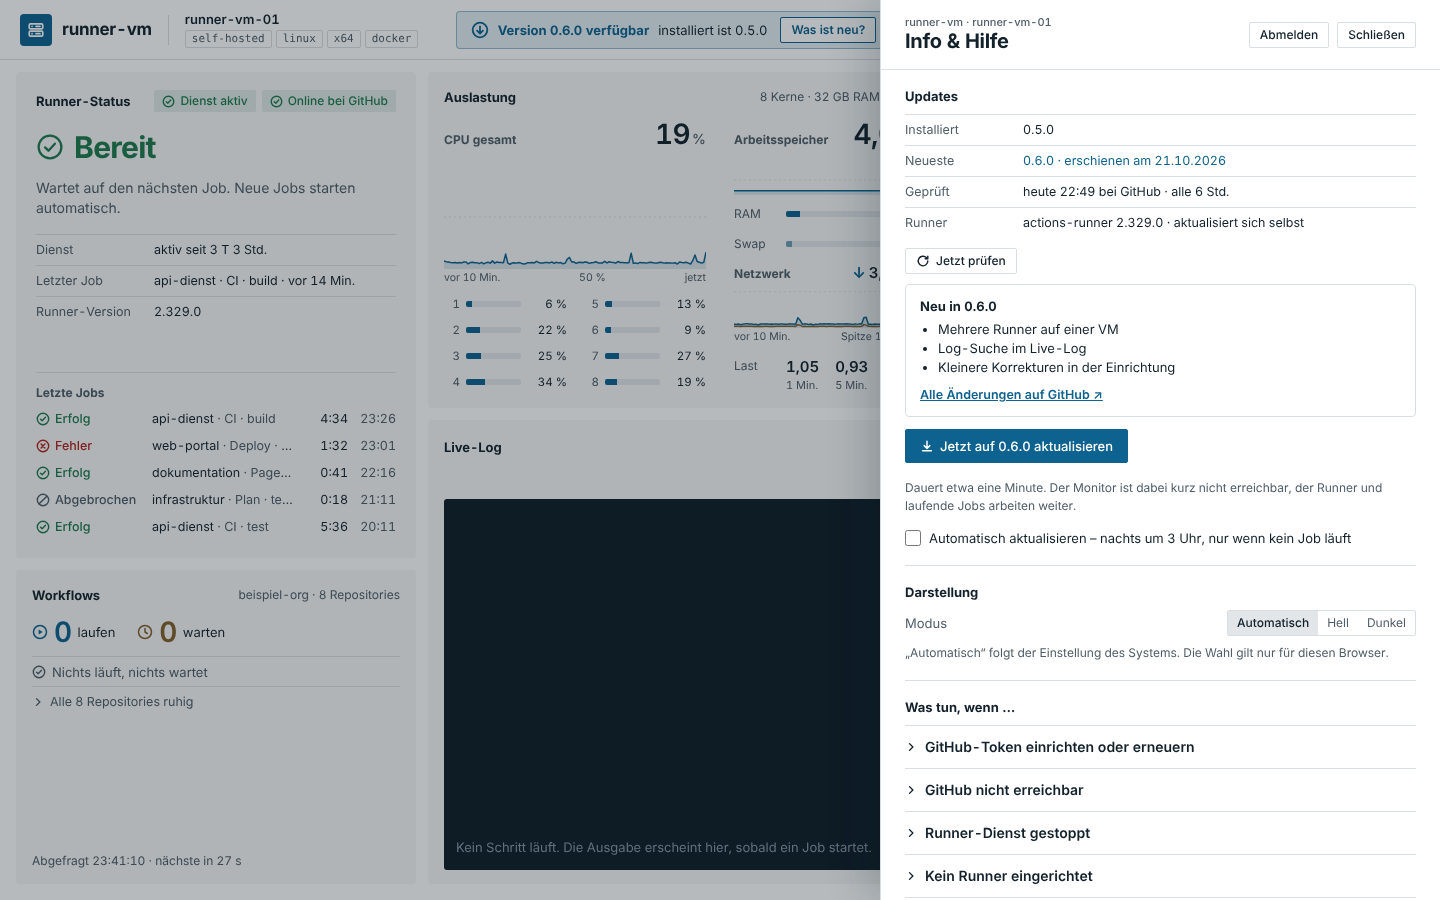
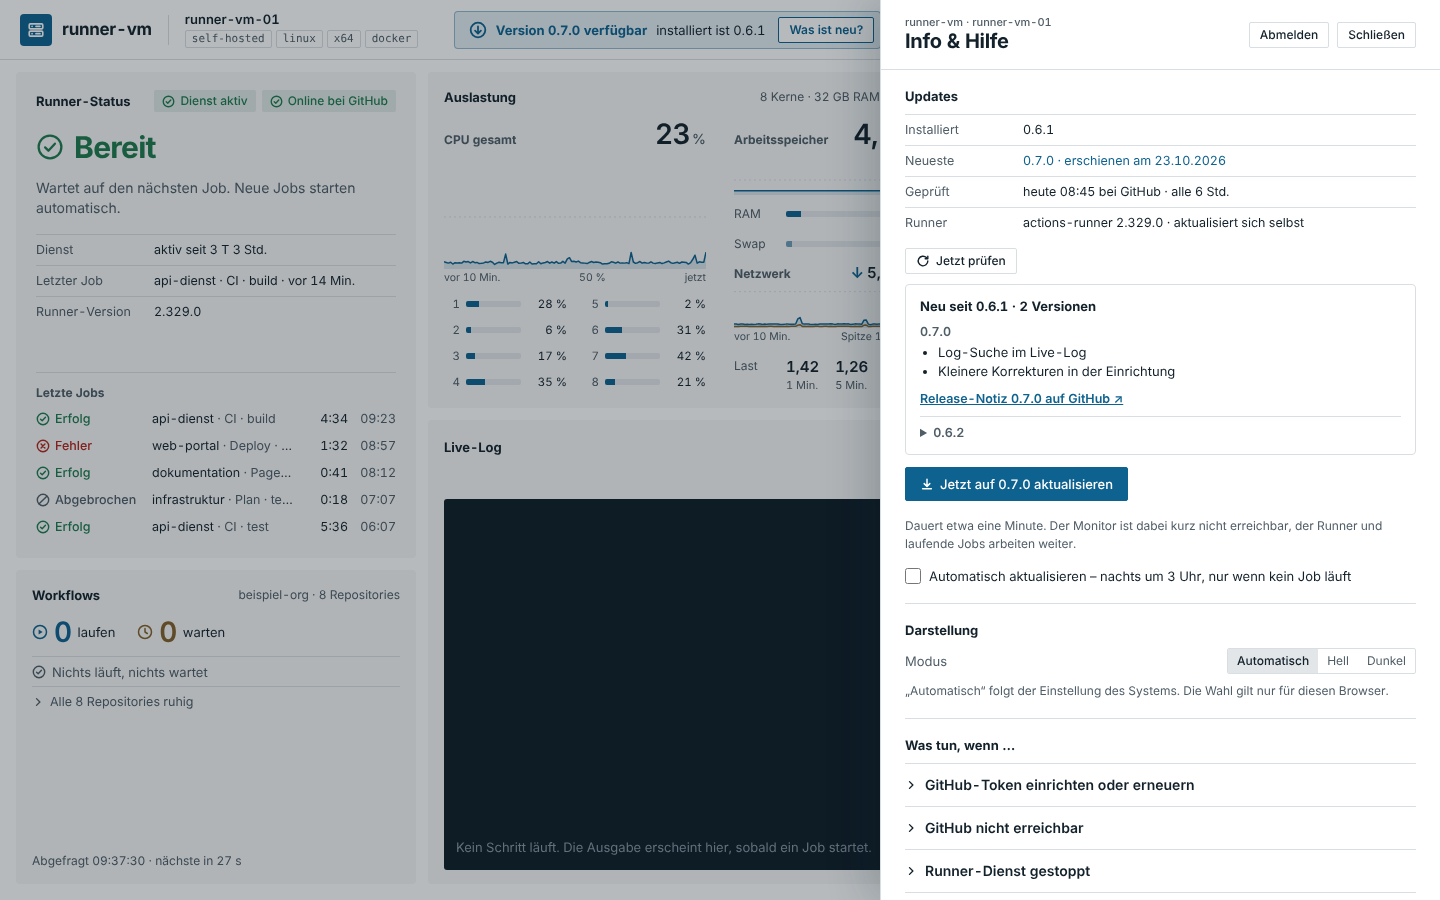
Änderungen seit der installierten Version vor dem Update anzeigen (#78)
Claude-Session: https://claude.ai/code/session_01Dvhiq4HdS1jMhHCCuwreiQ

diff --git a/web/dashboard.js b/web/dashboard.js
@@ -619,6 +619,26 @@
     $('k-info').focus();
   }
 
+  // Inline-Code aus Release-Notizen (`…`) nach dem Maskieren als <code> zeigen
+  const mitCode = (text) => esc(text).replace(/`([^`]+)`/g, '<code class="inl">$1</code>');
+
+  // Was sich gegenüber der installierten Version ändert (#78): je Version „Neu in X“ und
+  // „Einmalig nach dem Update“; neueste offen, ältere eingeklappt.
+  function aenderungenHtml(u) {
+    const liste = (u.neueste.aenderungen && u.neueste.aenderungen.length) ? u.neueste.aenderungen
+      : (u.neueste.notizen && u.neueste.notizen.length ? [{ version: u.neueste.version, url: u.neueste.url, neu: u.neueste.notizen, einmalig: '' }] : []);
+    if (!liste.length) return '';
+    const block = (r) => `${r.einmalig ? `<div class="upd-einmalig"><span class="upd-einmalig-titel">Einmalig nach dem Update:</span> ${mitCode(r.einmalig)}</div>` : ''}`
+      + (r.neu && r.neu.length ? `<ul>${r.neu.map(n => `<li>${mitCode(n)}</li>`).join('')}</ul>` : '')
+      + `<a href="${esc(r.url || `https://github.com/${REPO}/releases`)}" rel="noopener" target="_blank">Release-Notiz ${esc(r.version)} auf GitHub ↗</a>`;
+    const [erste, ...aeltere] = liste;
+    const titel = liste.length > 1 ? `Neu seit ${esc(u.installiert)} · ${liste.length} Versionen` : `Neu in ${esc(erste.version)}`;
+    return `<div class="upd-neu"><div class="upd-neu-titel">${titel}</div>`
+      + (liste.length > 1 ? `<div class="upd-version">${esc(erste.version)}</div>` : '') + block(erste)
+      + aeltere.map(r => `<details class="upd-aelter"><summary>${esc(r.version)}</summary>${block(r)}</details>`).join('')
+      + '</div>';
+  }
+
   function infoTeile() {
     const st = S.status || {}, w = S.workflows || {}, u = S.update || {}, us = u.status || {};
     const jetzt = Date.now();
@@ -633,7 +653,7 @@
       ['Runner', `${st.version ? 'actions-runner ' + esc(st.version) : '–'} · aktualisiert sich selbst`],
     ]);
     upd += pruefKnopf(u, us, neu);
-    if (neu && u.neueste.notizen && u.neueste.notizen.length) upd += `<div class="upd-neu"><div class="upd-neu-titel">Neu in ${esc(u.neueste.version)}</div><ul>${u.neueste.notizen.map(n => `<li>${esc(n)}</li>`).join('')}</ul><a href="${esc(u.neueste.url || `https://github.com/${REPO}/releases`)}" rel="noopener" target="_blank">Alle Änderungen auf GitHub ↗</a></div>`;
+    if (neu) upd += aenderungenHtml(u);
     if (us.zustand === 'laeuft' || us.zustand === 'fehler') {
       const nr = us.schritt || 1;
       const zeilen = UPDATE_SCHRITTE.map((s, i) => {

diff --git a/web/demo.js b/web/demo.js
@@ -63,7 +63,11 @@ window.RM_DEMO = (() => {
   };
   const update = () => {
     const t = jetzt();
-    const neueste = { geprueft: t - 3100, version: upd === 'aktuell' ? INST : NEU, veroeffentlicht: t - 2 * 86400, url: 'https://github.com/Bamberger-IT-Services/Self-Hosted-Github-Runner-Monitor/releases', notizen: ['Mehrere Runner auf einer VM', 'Log-Suche im Live-Log', 'Kleinere Korrekturen in der Einrichtung'] };
+    const neueste = { geprueft: t - 3100, version: upd === 'aktuell' ? INST : NEU, veroeffentlicht: t - 2 * 86400, url: 'https://github.com/Bamberger-IT-Services/Self-Hosted-Github-Runner-Monitor/releases', notizen: ['Mehrere Runner auf einer VM', 'Log-Suche im Live-Log', 'Kleinere Korrekturen in der Einrichtung'],
+      aenderungen: upd === 'aktuell' ? [] : [
+        { version: NEU, url: 'https://github.com/Bamberger-IT-Services/Self-Hosted-Github-Runner-Monitor/releases', neu: ['Log-Suche im Live-Log', 'Kleinere Korrekturen in der Einrichtung'], einmalig: '' },
+        { version: INST.split('.').map((x, i) => i === 2 ? Number(x) + 1 : x).join('.'), url: 'https://github.com/Bamberger-IT-Services/Self-Hosted-Github-Runner-Monitor/releases', neu: ['Runner-Dienst übersteht Speichermangel', 'Grund für gestoppten Dienst im Dashboard'], einmalig: 'Empfohlen: `sudo /opt/runner-monitor/aktuell/einrichten.sh runner` einmal ausführen.' },
+      ] };
     const st = upd === 'laeuft' ? { zustand: 'laeuft', schritt: Math.min(5, 1 + Math.floor(updSchritt / 4)), version: NEU, zeit: t - updSchritt }
       : upd === 'fehler' ? { zustand: 'fehler', schritt: 5, version: NEU, zeit: t - 300, meldung: 'die neue Version hat nach dem Neustart nicht geantwortet' } : {};
     return { installiert: INST, neueste, status: st, auto: false };

diff --git a/web/stil.css b/web/stil.css
@@ -339,6 +339,11 @@ body.dashboard { overflow: hidden; }
 .upd-neu-titel { font-weight: 650; margin-bottom: 4px; }
 .upd-neu ul { margin: 0 0 8px; padding-left: 18px; }
 .upd-neu a { color: var(--brand); font-weight: 600; font-size: 12.5px; }
+.upd-version { font-weight: 600; font-size: 12.5px; color: var(--ink-muted); margin: 6px 0 2px; }
+.upd-einmalig { margin: 4px 0 8px; padding: 8px 10px; border-radius: var(--r-sm); background: var(--surface-alt); border-left: 3px solid var(--warning); font-size: 12.5px; line-height: 18px; }
+.upd-einmalig-titel { font-weight: 650; }
+.upd-aelter { margin-top: 8px; border-top: 1px solid var(--border); padding-top: 6px; }
+.upd-aelter summary { cursor: pointer; font-weight: 600; font-size: 12.5px; color: var(--ink-muted); }
 .upd-aktion { display: flex; flex-direction: column; align-items: flex-start; gap: 8px; margin: 10px 0; }
 .upd-aktion.zeile { flex-direction: row; align-items: center; }
 .upd-schritte { list-style: none; margin: 10px 0 0; padding: 0; display: flex; flex-direction: column; gap: 8px; font-size: 13px; }

diff --git a/runner_monitor/github.py b/runner_monitor/github.py
@@ -282,6 +282,59 @@ def neueste_version(klient: Klient, repo: str) -> dict:
     }
 
 
+AENDERUNGEN_MAX_VERSIONEN = 10
+AENDERUNGEN_MAX_PUNKTE = 12
+EINMALIG_MAX = 600
+
+
+def abschnitte(text: str) -> dict[str, list[str]]:
+    """Release-Notiz (docs/releases/vX.md) in Abschnitte „## Überschrift“ → Zeilen zerlegen."""
+    teile: dict[str, list[str]] = {}
+    aktuell = ""
+    for zeile in (text or "").splitlines():
+        if zeile.startswith("## "):
+            aktuell = zeile[3:].strip().lower()
+            teile.setdefault(aktuell, [])
+        elif aktuell:
+            teile[aktuell].append(zeile.rstrip())
+    return teile
+
+
+def deute_notiz(text: str) -> dict:
+    """„Was ist neu“ als Punkte, „Einmalig nach dem Update“ als Text (ohne „Keine Schritte nötig.“)."""
+    teile = abschnitte(text)
+    punkte = lambda zeilen: [z.strip()[1:].strip() for z in zeilen if z.strip().startswith(("-", "*"))]
+    neu = punkte(teile.get("was ist neu", []))
+    if not neu:  # ältere Notizen ohne Abschnitt: alle Aufzählungspunkte
+        neu = punkte((text or "").splitlines())
+    einmalig = " ".join(z.strip() for z in teile.get("einmalig nach dem update", []) if z.strip())
+    einmalig = re.sub(r"^Keine Schritte nötig\.?\s*", "", einmalig).strip()
+    return {"neu": neu[:AENDERUNGEN_MAX_PUNKTE], "einmalig": einmalig[:EINMALIG_MAX]}
+
+
+def aenderungen(klient: Klient, repo: str, installiert: str, neueste: str) -> list[dict]:
+    """Alle veröffentlichten Releases nach ``installiert`` bis einschließlich ``neueste``, neueste
+    zuerst – damit Info › Updates zeigt, was sich gegenüber dem installierten Stand ändert (#78)."""
+    try:
+        daten = klient.hole(f"/repos/{repo}/releases", {"per_page": 30}).daten
+    except GitHubFehler:
+        return []
+    liste = []
+    for rel in daten if isinstance(daten, list) else []:
+        if not isinstance(rel, dict) or rel.get("draft") or rel.get("prerelease"):
+            continue
+        tag = rel.get("tag_name", "")
+        version = tag[1:] if tag.startswith("v") else tag
+        if not re.fullmatch(r"\d+\.\d+\.\d+", version):
+            continue
+        if vergleiche(version, installiert) <= 0 or vergleiche(version, neueste) > 0:
+            continue
+        liste.append({"version": version, "url": rel.get("html_url", ""),
+                      "veroeffentlicht": iso_zu_unix(rel.get("published_at")), **deute_notiz(rel.get("body") or "")})
+    liste.sort(key=lambda r: tuple(int(x) for x in r["version"].split(".")), reverse=True)
+    return liste[:AENDERUNGEN_MAX_VERSIONEN]
+
+
 def vergleiche(a: str, b: str) -> int:
     """SemVer ohne Vorab-Teil vergleichen: -1, 0, 1."""
     def teile(v: str) -> tuple[int, ...]:

diff --git a/tests/test_runner_github.py b/tests/test_runner_github.py
@@ -90,6 +90,39 @@ class SeitenTest(unittest.TestCase):
             self.assertEqual(runner.lies_registrierung(Path(verz) / "fehlt"), {})
 
 
+class AenderungenTest(unittest.TestCase):
+    """Änderungen seit der installierten Version (#78)."""
+
+    def test_notiz_aus_dem_repo(self):
+        text = Path("docs/releases/v0.6.1.md").read_text(encoding="utf-8")
+        d = github.deute_notiz(text)
+        self.assertTrue(d["neu"] and d["neu"][0].startswith("Runner-Einrichtung"))
+        self.assertIn("einrichten.sh runner", d["einmalig"])
+        d = github.deute_notiz(Path("docs/releases/v0.5.0.md").read_text(encoding="utf-8"))
+        self.assertEqual(d["einmalig"].split(".")[0], "Offene Dashboard-Fenster dürfen neu geladen werden, müssen aber nicht")
+
+    def test_alte_notiz_ohne_abschnitte(self):
+        self.assertEqual(github.deute_notiz("Text\n- eins\n* zwei\n")["neu"], ["eins", "zwei"])
+
+    def test_versionen_zwischen_installiert_und_neueste(self):
+        def rel(tag, body="## Was ist neu\n- x\n", **mehr):
+            return {"tag_name": tag, "body": body, "html_url": f"https://example.org/{tag}", "published_at": "2026-10-25T00:00:00Z", **mehr}
+
+        class Klient:
+            def hole(self, pfad, parameter=None):
+                return github.Antwort([rel("v0.7.0"), rel("v0.6.2"), rel("v0.6.1"), rel("v0.6.10", prerelease=True),
+                                       rel("v0.8.0", draft=True), rel("kaputt")], {})
+        liste = github.aenderungen(Klient(), "beispiel-org/x", "0.6.1", "0.7.0")
+        self.assertEqual([r["version"] for r in liste], ["0.7.0", "0.6.2"])
+        self.assertEqual(liste[0]["neu"], ["x"])
+
+    def test_fehler_ergibt_leere_liste(self):
+        class Klient:
+            def hole(self, pfad, parameter=None):
+                raise github.GitHubFehler("nicht-erreichbar", "weg")
+        self.assertEqual(github.aenderungen(Klient(), "beispiel-org/x", "0.6.1", "0.7.0"), [])
+
+
 class DienstGrundTest(unittest.TestCase):
     """Gestoppter Dienst: Ursache aus systemd „Result“ (#68)."""
 

diff --git a/runner_monitor/sammler.py b/runner_monitor/sammler.py
@@ -172,8 +172,11 @@ class Sammler:
         schreibe_oeffentlich(self.k.lauf_verz / "github.json", ergebnis)
 
     def release(self) -> dict:
-        daten = github.neueste_version(github.Klient(self.token()), self.k.release_repo)
+        klient = github.Klient(self.token())
+        daten = github.neueste_version(klient, self.k.release_repo)
         daten["installiert"] = VERSION
+        if github.vergleiche(daten.get("version", ""), VERSION) > 0:
+            daten["aenderungen"] = github.aenderungen(klient, self.k.release_repo, VERSION, daten["version"])
         schreibe_oeffentlich(self.k.lauf_verz / "release.json", daten)
         return daten
 

diff --git a/docs/handbuch/04-info-und-hilfe.md b/docs/handbuch/04-info-und-hilfe.md
@@ -12,7 +12,7 @@ aufgeklappte Anleitung bleiben.
 
 | Abschnitt | Inhalt |
 |---|---|
-| **Updates** | installierte und neueste Version, wann zuletzt geprüft, Knopf **„Jetzt prüfen“** (fragt GitHub sofort, höchstens einmal je Minute; gesperrt, solange ein Update läuft), Neuerungen, Knopf „Jetzt aktualisieren“ mit Fortschritt (gleich nach einem neuen Release steht dort kurz „wird gerade bereitgestellt“, bis das Paket am Release hängt), Schalter „Automatisch aktualisieren“ ([UPDATE.md](../UPDATE.md)) |
+| **Updates** | installierte und neueste Version, wann zuletzt geprüft, Knopf **„Jetzt prüfen“** (fragt GitHub sofort, höchstens einmal je Minute; gesperrt, solange ein Update läuft), Neuerungen seit der installierten Version (je Version „Was ist neu“, einmalige Schritte farbig hervorgehoben, ältere Versionen zum Aufklappen), Knopf „Jetzt aktualisieren“ mit Fortschritt (gleich nach einem neuen Release steht dort kurz „wird gerade bereitgestellt“, bis das Paket am Release hängt), Schalter „Automatisch aktualisieren“ ([UPDATE.md](../UPDATE.md)) |
 | **Darstellung** | Automatisch (folgt dem System), Hell, Dunkel – gilt für diesen Browser. Derselbe Umschalter sitzt als Knopf in der Kopfzeile. |
 | **Was tun, wenn …** | Schritt-für-Schritt-Anleitungen; jeder Befehl hat einen Knopf **Kopieren**: Token, GitHub nicht erreichbar, Dienst gestoppt, offline, **Runner-Logs abrufen**, Platte knapp, Verbindung zum Monitor, Monitor aktualisieren |
 | **GitHub-Verbindung** | Organisation, Token-Zustand, Rechte, Ablaufdatum, letzte und nächste Abfrage, API-Kontingent, Ort der Token-Datei – nur zum Anschauen. Ändern auf der VM: „Was tun, wenn …“ › „GitHub-Token einrichten oder erneuern“ (`sudo /opt/runner-monitor/aktuell/einrichten.sh token`) |

diff --git a/docs/FUNKTIONSWEISE.md b/docs/FUNKTIONSWEISE.md
@@ -95,7 +95,7 @@ eigenes Ereignis und ein eigenes Datenobjekt:
 | `prozesse` | `[{pid, benutzer, cpu, ram, befehl}]` |
 | `platten` | `[{pfad, gesamt, frei, belegt, schwelleFrei}]` (Bytes; `schwelleFrei` nur für „/“) |
 | `workflows` | `org`, `abfrage: ok\|kein-token\|token-ungueltig\|keine-rechte\|nicht-erreichbar\|kontingent\|fehler`, `abgefragt`, `naechste`, `tokenAblauf`, `kontingent{}`, `repos[{name, privat, laeuft, wartet}]` |
-| `update` | `installiert`, `neueste{version, veroeffentlicht, notizen[], …}`, `status{zustand: laeuft\|fehler\|erfolg, schritt, meldung}`, `auto` |
+| `update` | `installiert`, `neueste{version, veroeffentlicht, notizen[], aenderungen[{version, url, neu[], einmalig}], …}` (`aenderungen`: alle Releases nach der installierten bis zur neuesten, aus den Abschnitten „Was ist neu“ und „Einmalig nach dem Update“ der Release-Notiz), `status{zustand: laeuft\|fehler\|erfolg, schritt, meldung}`, `auto` |
 | `container` | `[{name, image, zustand, seit}]` |
 | `log` | `neu` (Ansicht leeren), `ereignisse[{art, zeit, repo, workflow, name, ergebnis, dauer}]`, `zeilen[{art: zeile\|schritt, zeit, text \| nr, von, name}]` (gebündelt, bis 1500 je Nachricht) |
 

diff --git a/docs/design/README.md b/docs/design/README.md
@@ -112,6 +112,10 @@ Geprüft mit Bildschirmfotos bei 1440 × 900 (Design und App nebeneinander), hel
   nicht geplant).
 - Docker-Container werden gesammelt, aber nicht angezeigt; eine Anzeige ist nicht geplant (E-05,
   Issue #22 vom Projektinhaber geschlossen).
+- **Änderungen seit der installierten Version** (#78, Erweiterung von „Neu in X“): Bei mehreren
+  Versionen heißt der Kasten „Neu seit X · n Versionen“, die neueste steht offen, ältere sind
+  einklappbar (`details`). „Einmalig nach dem Update“ steht als Kasten mit gelbem Rand über den
+  Punkten der Version.
 - **Grund eines gestoppten Dienstes** (#68, ohne Entwurf): Die Status-Karte „Dienst gestoppt“ hat
   eine zusätzliche Zeile „Grund“ (z. B. „Speicher voll (OOM-Killer)“) im vorhandenen kv-Stil, die
   Meldung oben nennt die Ursache vor „Jobs bleiben in der Warteschlange“. Im nächsten Design

diff --git a/docs/UPDATE.md b/docs/UPDATE.md
@@ -6,8 +6,9 @@ Der Monitor prüft alle 6 Stunden, ob es auf GitHub ein neueres Release gibt –
 **Info › Updates › „Jetzt prüfen“** (höchstens einmal je Minute, auf der VM alternativ
 `sudo systemctl restart runner-monitor-sammler`). Gibt es eins, erscheint
 oben die Meldung **„Version X.Y.Z verfügbar“**. Vorher die Release-Notiz lesen
-(`docs/releases/vX.Y.Z.md` oder „Was ist neu?“). Steht dort ein einmaliger Schritt, kommt er
-nach dem Update dran.
+(`docs/releases/vX.Y.Z.md` oder „Was ist neu?“). Info › Updates zeigt alle Versionen seit der
+installierten – je Version „Was ist neu“ und, hervorgehoben, „Einmalig nach dem Update“. Ein
+einmaliger Schritt kommt nach dem Update dran.
 
 ## Im Browser (empfohlen)
 

diff --git a/CHANGELOG.md b/CHANGELOG.md
@@ -4,6 +4,10 @@ Format nach [Keep a Changelog](https://keepachangelog.com/de/1.1.0/), Versionen 
 
 ## [Unveröffentlicht]
 
+### Neu
+- Info › Updates zeigt alle Änderungen seit der installierten Version – je Version „Was ist neu“
+  und hervorgehoben „Einmalig nach dem Update“, ältere Versionen zum Aufklappen (#78).
+
 ### Sicherheit
 - `SECURITY.md`: Lücken vertraulich über GitHub melden („Private vulnerability reporting“);
   `main` nur noch per PR mit grüner CI (Branch-Schutz) (#21).
